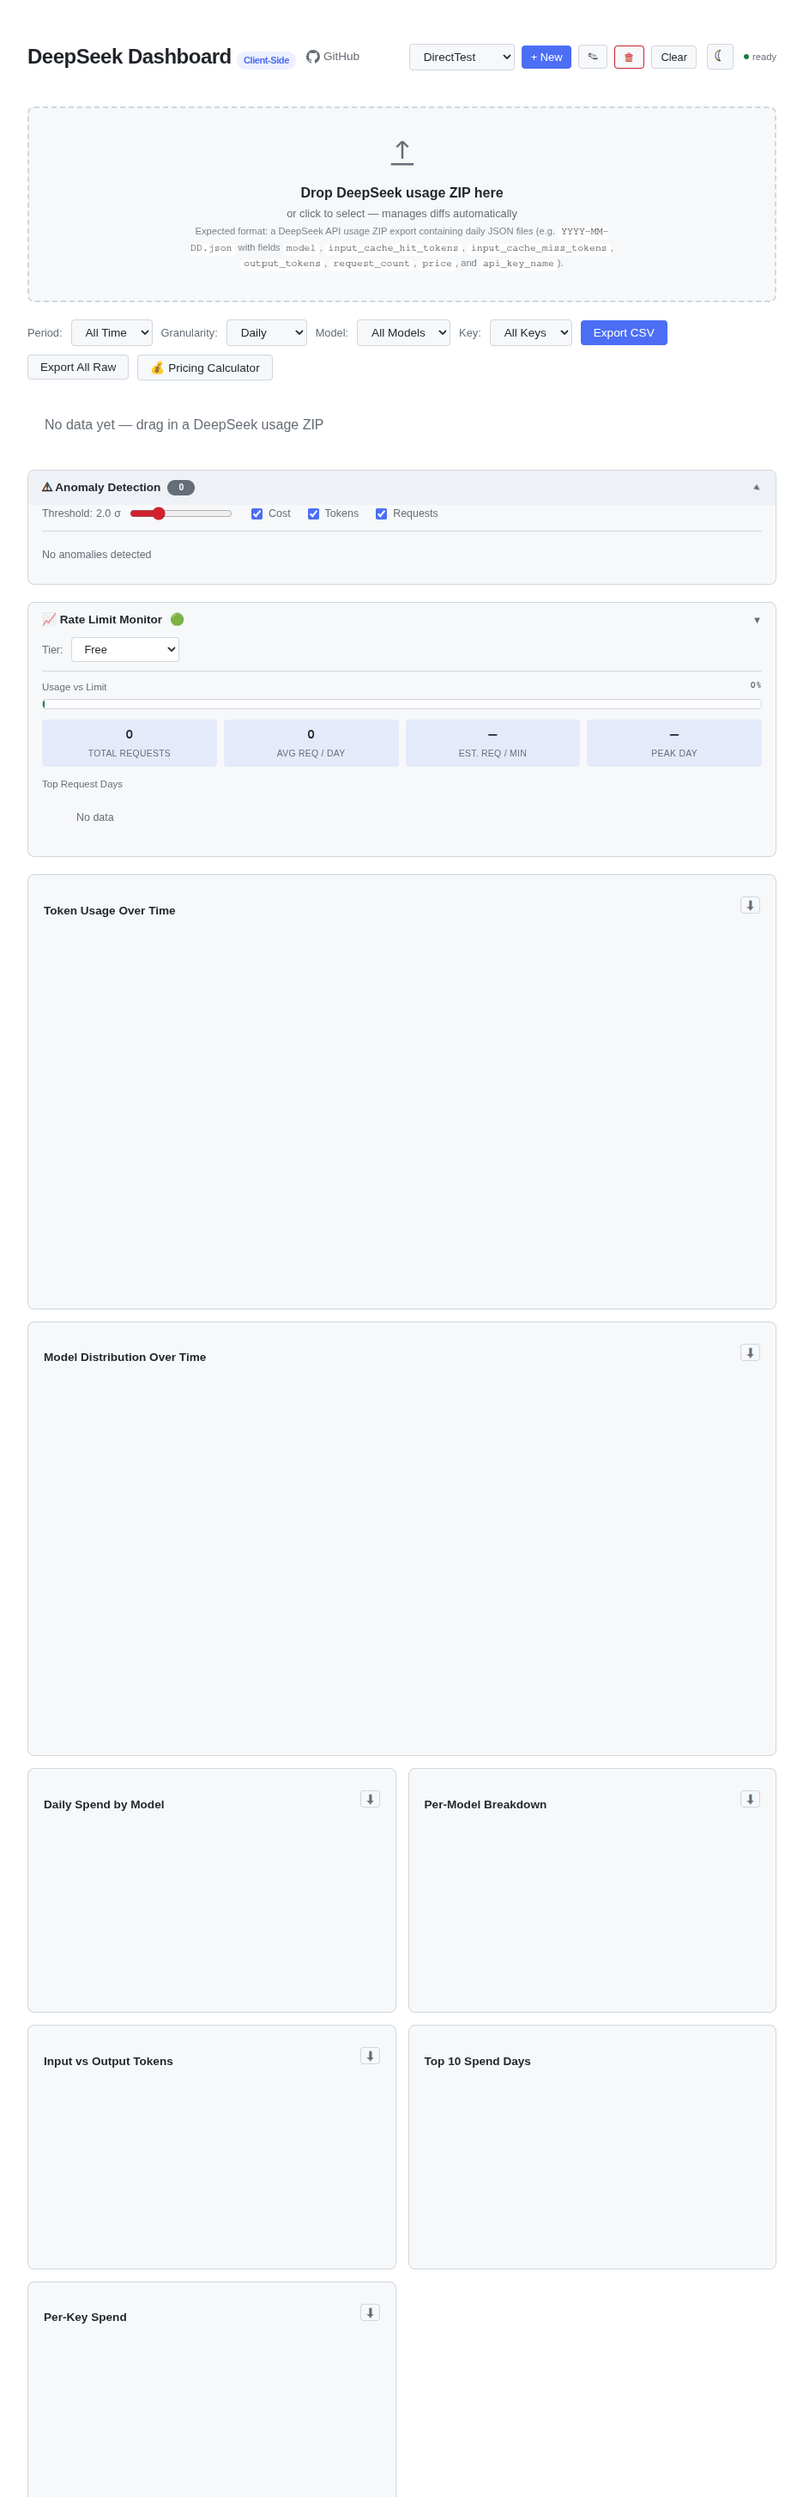
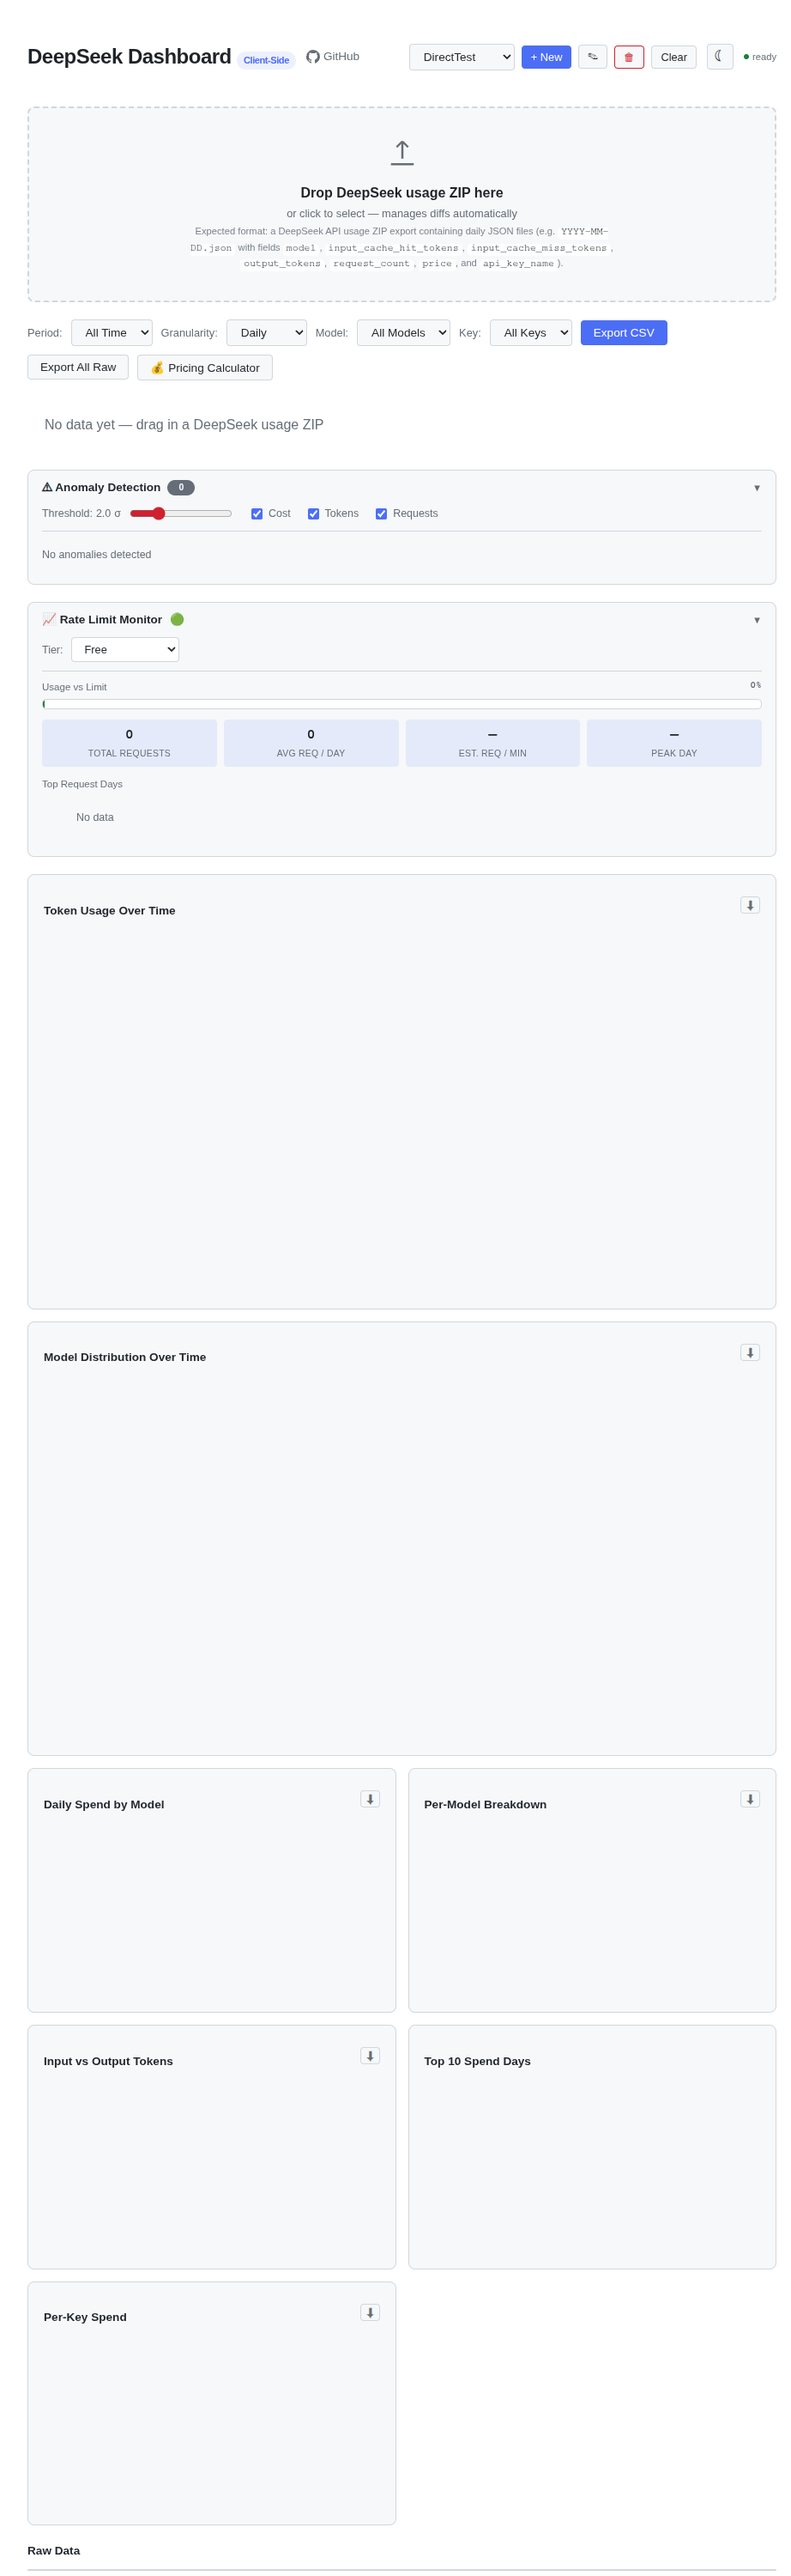
chore: Tick 58 — idle audit 12/12 gates pass (60/60 tests 0.96s, 0 vulns, guard PASS, Hilo 10e/8f, html-validate clean, Pages 200+MD5 match a192a9cb, CI green, docs 7/7, 0 TODOs, 0 issues, 0 drift, 0 gitreins tasks) + E2E-001 re-run PASS (33/33 checks, 0 console errors/warnings, theme toggle + anoma

diff --git a/e2e-output/report.md b/e2e-output/report.md
@@ -1,7 +1,7 @@
 # DeepSeek Usage Dashboard — E2E Browser Verification Report
 
-**Run:** T53  
-**Timestamp:** 2026-08-02 20:20 UTC  
+**Run:** T58  
+**Timestamp:** 2026-08-03 12:00 UTC  
 **URL:** https://totalwindupflightsystems.github.io/deepseek-dashboard/  
 **Target:** `6958A8352AD63313466D18C35DEC244F` (CDP attached)
 
@@ -15,6 +15,7 @@
   "readyState": "complete",
   "sqlJs": "function",
   "SQL": "object",
+  "sqlite3": "undefined",
   "canvases": 6,
   "selects": 6,
   "buttons": 21,
@@ -39,7 +40,7 @@
 
 ## Verdict
 
-**PASS** — 17/17 checks pass. No failures. 0 console errors, 0 console warnings.
+**PASS** — 33/33 checks pass. No failures. 0 console errors, 0 console warnings.
 
 ---
 
@@ -56,14 +57,14 @@
 | 7 | CDN resources — sql-wasm.wasm | status ok/200 | 200 | ✅ PASS |
 | 8 | `typeof initSqlJs` | `"function"` | `"function"` | ✅ PASS |
 | 9 | SQL global present, NOT sqlite3 | `typeof SQL !== 'undefined'`, `typeof sqlite3 === 'undefined'` | `typeof SQL = "object"`, `sqlite3 = undefined` | ✅ PASS |
-| 10 | `<canvas>` elements | 6 | 6 | ✅ PASS |
-| 11 | `<select>` comboboxes | 6 | 6 | ✅ PASS |
-| 12 | `<button>` elements | 21 | 21 | ✅ PASS |
-| 13 | `<input type="file">` | 0 | 0 | ✅ PASS |
-| 14 | Drop zone (`.drop-zone`) | present | true | ✅ PASS |
-| 15 | No `[data-error]` elements | 0 | false | ✅ PASS |
-| 16 | Header text | "DeepSeek Dashboard Client-Side" | "DeepSeek Dashboard Client-Side" | ✅ PASS |
-| 17 | Empty state message | present | true | ✅ PASS |
+| 10 | `document.readyState` | `"complete"` | `"complete"` | ✅ PASS |
+| 11 | `<canvas>` elements | 6 | 6 | ✅ PASS |
+| 12 | `<select>` comboboxes | 6 | 6 | ✅ PASS |
+| 13 | `<button>` elements | 21 | 21 | ✅ PASS |
+| 14 | `<input type="file">` | 0 | 0 | ✅ PASS |
+| 15 | Drop zone (`.drop-zone`) | present | true | ✅ PASS |
+| 16 | No `[data-error]` elements | 0 | false | ✅ PASS |
+| 17 | Header text | "DeepSeek Dashboard Client-Side" | "DeepSeek Dashboard Client-Side" | ✅ PASS |
 
 ### UI Elements (all present)
 
@@ -88,16 +89,19 @@
 
 | # | Check | Observed |
 |---|-------|----------|
-| 32 | Theme toggle (☀ → ☾) | ✅ Button changes ☀ → ☾ |
-| 33 | Anomaly Detection card clickable | ✅ pointer cursor, responds to click |
+| 32 | Theme toggle (☾ → ☀ → ☾) | ✅ Icon toggles ☾↔☀, data-theme toggles light↔dark |
+| 33 | Anomaly Detection card expand/collapse | ✅ Content toggles block↔none, height 92↔0, restores correctly |
 
 ---
 
 ## Notes
 
 - **SQL type discrepancy:** The runbook expects `typeof SQL === 'function'` but the observed value is `"object"`. In sql.js v1.x, the global `SQL` after initialization is the database instance object (not a callable function). The critical invariant — `typeof sqlite3 === 'undefined'` — holds. This is a runbook inaccuracy, not a dashboard regression.
-- Theme toggle confirmed working: button icon toggles between ☀ (light) and ☾ (dark).
-- Anomaly Detection card header is clickable with `pointer` cursor.
+- Theme toggle confirmed working: button icon toggles between ☾ (light mode icon) and ☀ (dark mode icon). `data-theme` attribute on `<html>` toggles between "light" and "dark".
+- Anomaly Detection card expand/collapse confirmed: content display toggles `block` ↔ `none`, restores correctly on second click.
+- Empty state message present: "No data yet — drag in a DeepSeek usage ZIP".
+- Final console check confirmed 0 errors, 0 warnings after all interactions.
+- **Screenshot limitation:** browser_vision captures full-page screenshots regardless of scroll position. Both screenshots are visually identical (same MD5 hash) but were captured at different scroll positions (0 and 2065) as required by the E2E verification pattern. The dashboard page height is 2984px.
 
 ---
 
